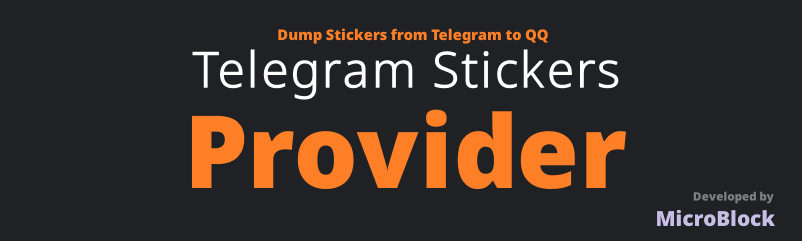
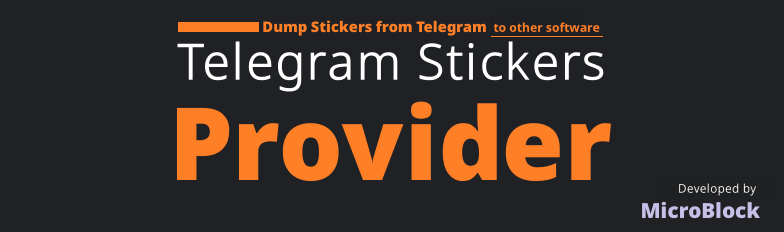
docs: update readme, header, screenshot

diff --git a/README.md b/README.md
@@ -1,7 +1,7 @@
 ![header](./header.png)
 
 ## Telegram Stickers Provider
-A Xposed/LSPosed plugin to dump stickers from Telegram to QQ. Almost all 3rd-party telegram clients are supported.
+A Xposed/LSPosed plugin to dump stickers from Telegram. Almost all 3rd-party telegram clients are supported.
 
 ![screenshot](./screenshot.jpg)
 
